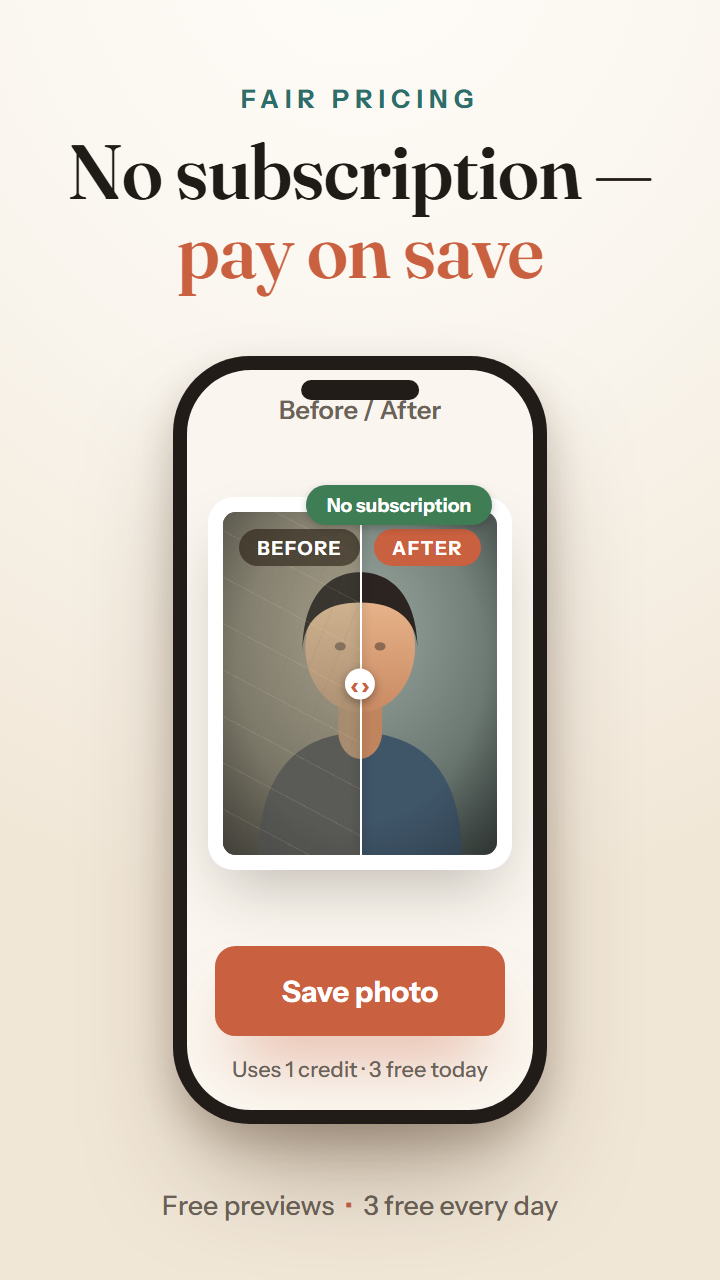
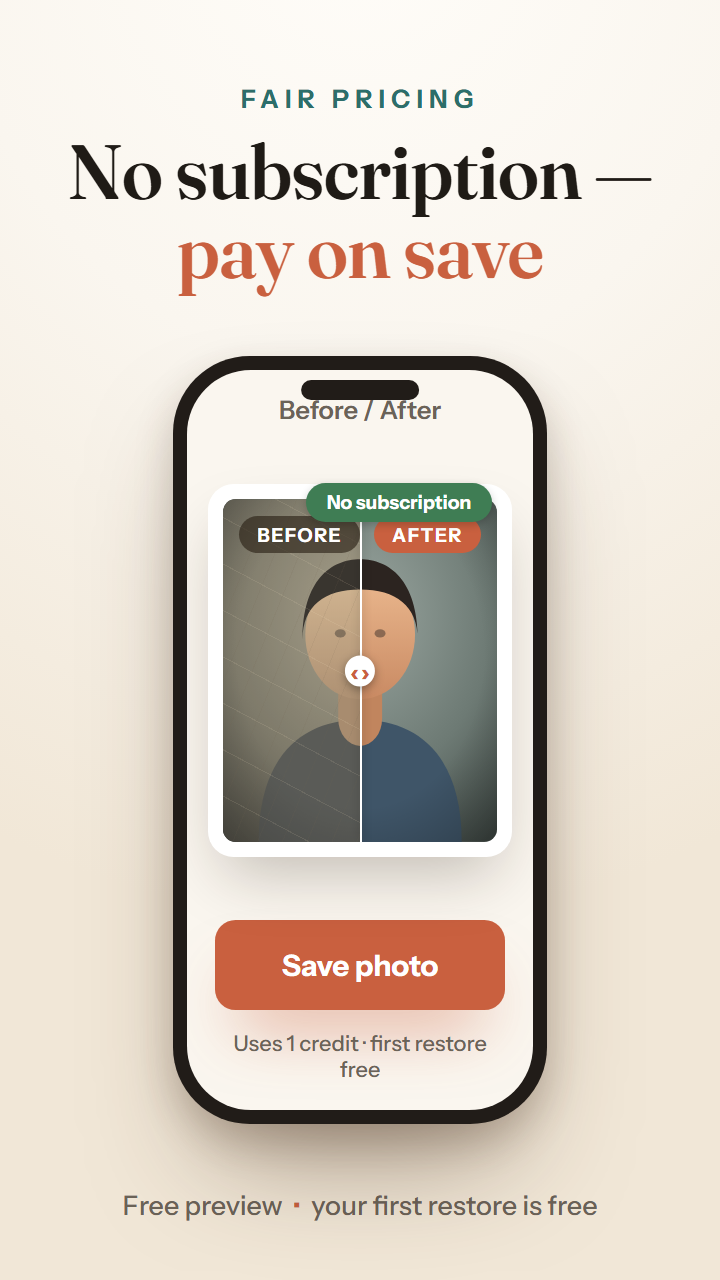
Update free-offer copy: 3 free daily -> 1 free restore (lifetime)
Hero note, feature card, and pricing chip now say "your first restore
is free" / "1 free restore" to match the new pricing model.

diff --git a/index.html b/index.html
@@ -46,7 +46,7 @@
         </a>
         <a class="btn btn-ghost" href="#how">See how it works →</a>
       </div>
-      <p class="hero-note">Currently in <b>closed testing</b> · 3 free restorations every day · no card to start.</p>
+      <p class="hero-note">Currently in <b>closed testing</b> · your first restore is free · no card to start.</p>
     </div>
 
     <div class="hero-visual">
@@ -105,7 +105,7 @@
         <div class="ico"><svg width="26" height="26" viewBox="0 0 24 24" fill="none" stroke="currentColor" stroke-width="1.8" stroke-linecap="round" stroke-linejoin="round"><path d="M12 2 4 5v6c0 5 3.4 8.3 8 10 4.6-1.7 8-5 8-10V5Z"/><path d="m9 12 2 2 4-4"/></svg></div>
         <div class="txt">
           <h3>No subscription. Ever.</h3>
-          <p>Preview every result for free, side by side with the original. You only pay when you choose to save the photo you love — and you get free restorations every day.</p>
+          <p>Preview every result for free, side by side with the original. Your first restore is free — after that, you only pay when you choose to save the photo you love.</p>
         </div>
       </div>
     </div>
@@ -157,7 +157,7 @@
       <div class="chips" style="justify-content:center">
         <span class="chip green"><span class="dot"></span>No subscription</span>
         <span class="chip"><span class="dot"></span>Charge on save</span>
-        <span class="chip teal"><span class="dot"></span>3 free every day</span>
+        <span class="chip teal"><span class="dot"></span>1 free restore</span>
       </div>
       <div class="pledge-grid">
         <div class="pg"><b>Free preview</b><span>Every result is shown side-by-side with the original, at no cost.</span></div>
